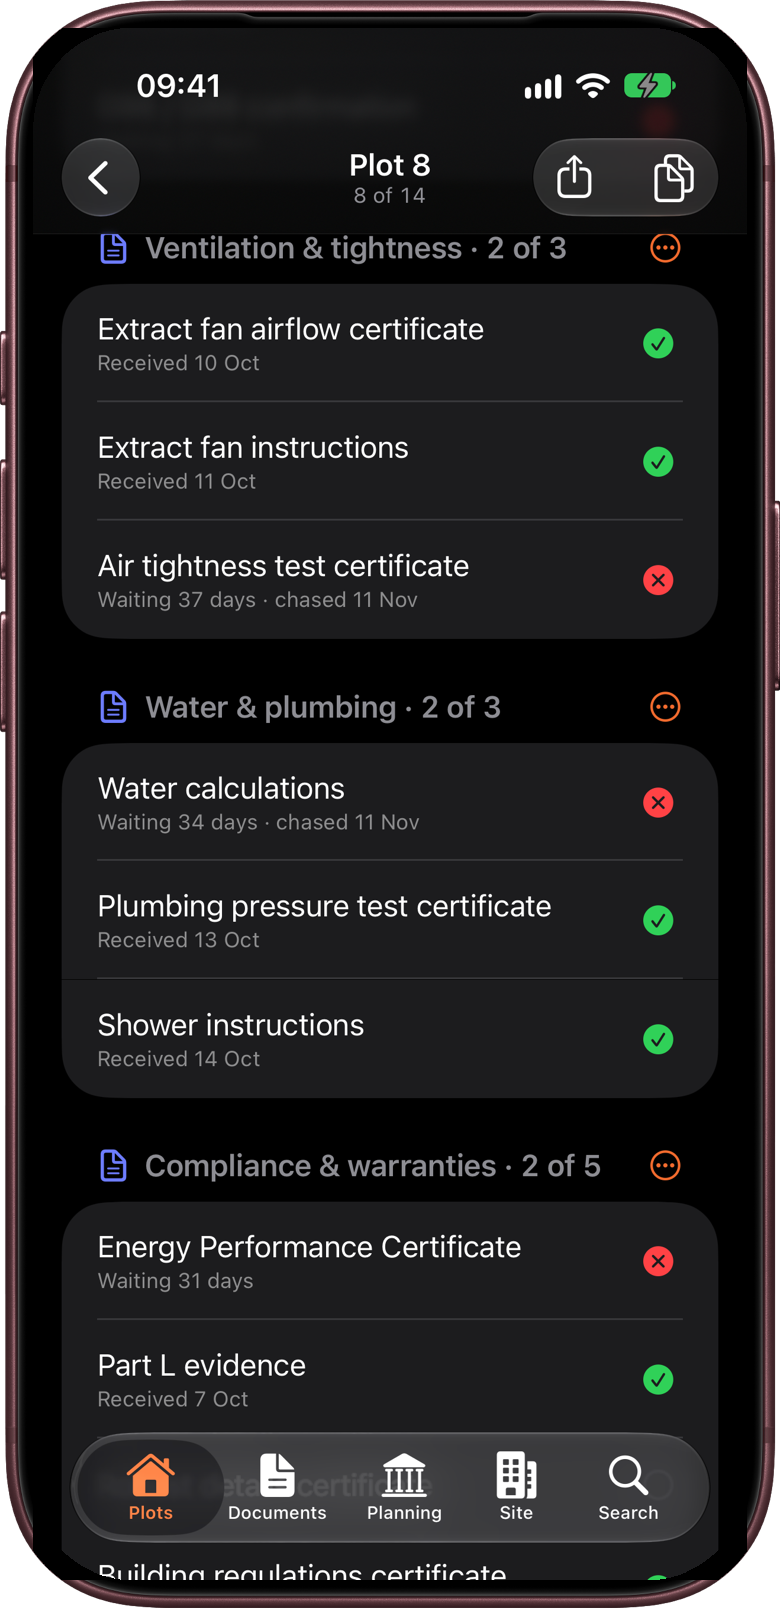
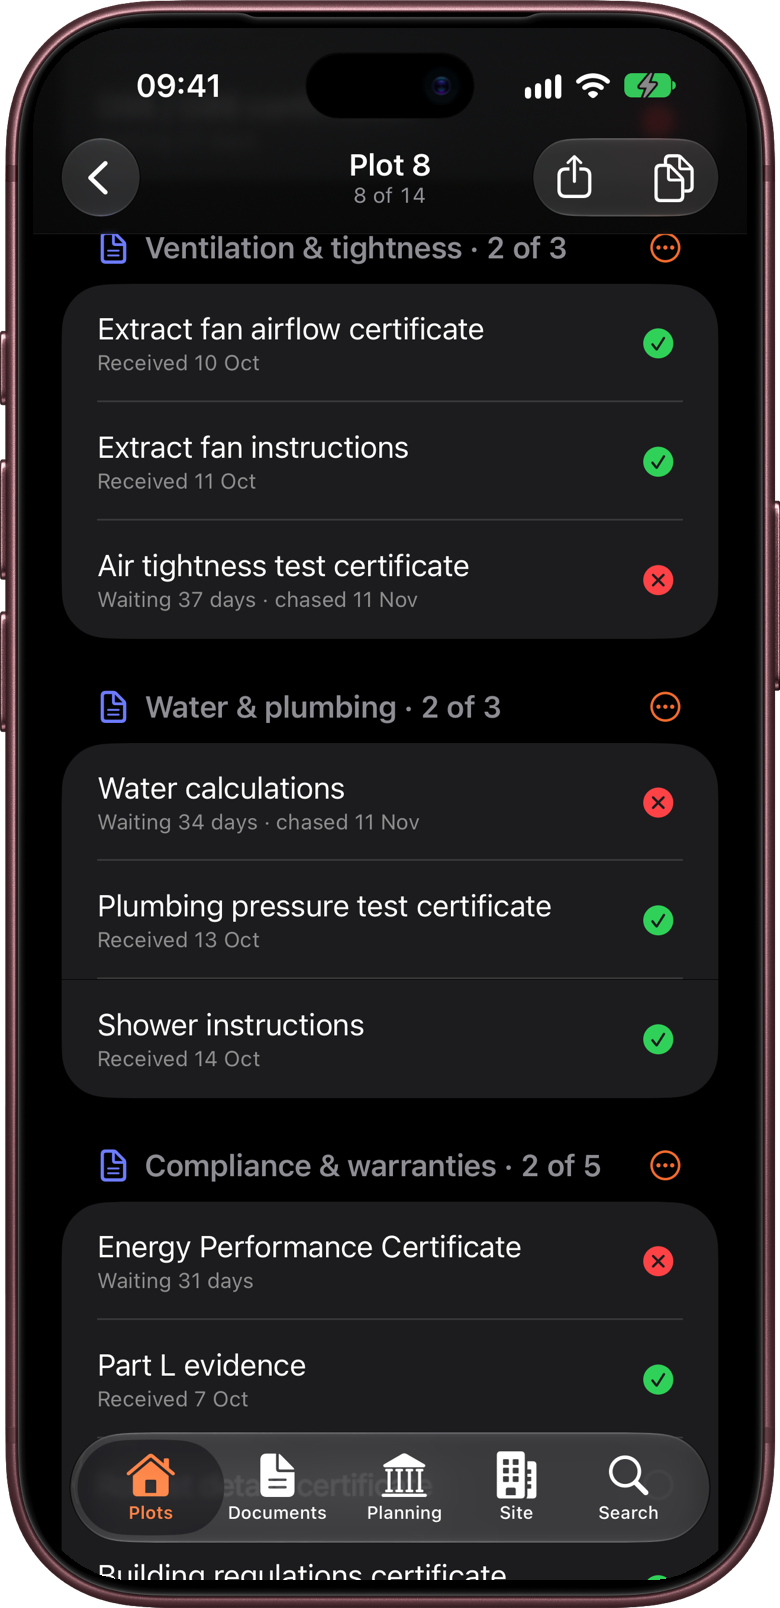
Manual: fix iPhone frame on the tab bar screenshots and update Planning wording
- Rebuild the frame template from the original framed image: clean rounded corners and the Dynamic Island
- Re-frame the eight screenshots retaken for the tab bar layout
- Update chapter 7's Planning wording and the search index

diff --git a/keycheck/manual-search-index.js b/keycheck/manual-search-index.js
@@ -766,7 +766,7 @@ window.KEYCHECK_MANUAL_INDEX = [
   "chapter": "7. Project-wide records",
   "heading": "Planning",
   "url": "manual-project-wide-records.html#planning",
-  "text": "Experimental Planning is experimental. It reads council documents that come in many different layouts, and it will sometimes put a condition in the wrong section or miss a link between decisions. Check what it finds against the documents before relying on it. Planning is a tracker to help you keep on top of the paperwork, not a legal certificate that the site complies with its permission. Planning keeps the site's planning history in one place: the decision notices, the conditions on them, the discharge decisions that approve those conditions, and the S106 and CIL obligations. It works out which permission the site is being built under, and shows what's still outstanding before work starts and before the homes are occupied. Open the project and tap the Planning tab. Planning has four tabs along the top: Timeline , Conditions , S106 and To do . The Meadow View Phase 2 sample project has a full permission (23/01842/FUL) with conditions, discharge decisions and S106 obligations, so it's a good place to look around."
+  "text": "Experimental Planning is experimental. It reads council documents that come in many different layouts, and it will sometimes put a condition in the wrong section or miss a link between decisions. Check what it finds against the documents before relying on it. Planning is a tracker to help you keep on top of the paperwork, and you may need to use your own judgement to decide if a site complies with its permission. Planning keeps the site's planning history in one place: the decision notices, the conditions on them, the discharge decisions that approve those conditions, and the S106 and CIL obligations. It works out which permission the site is being built under, and shows what's still outstanding before work starts and before the homes are occupied. Open the project and tap the Planning tab. Planning has four tabs along the top: Timeline , Conditions , S106 and To do . The Meadow View Phase 2 sample project has a full permission (23/01842/FUL) with conditions, discharge decisions and S106 obligations, so it's a good place to look around."
  },
  {
   "chapter": "7. Project-wide records",
@@ -826,6 +826,6 @@ window.KEYCHECK_MANUAL_INDEX = [
   "chapter": "7. Project-wide records",
   "heading": "Planning in the reports",
   "url": "manual-project-wide-records.html#planning-in-the-reports",
-  "text": "Progress report (chapter 11): a Planning section with the Building under summary and discharge progress, a drawn timeline, the conditions under each heading with discharge decisions and dates, and the S106 obligations. Handover pack (chapter 10): the project documents PDF has a Planning conditions section listing outstanding, discharged and compliance conditions, and the S106 obligations. Conditions replaced by the working variation aren't listed. From the office Planning is mostly office work: whoever deals with the council can import each discharge decision as it arrives, and everyone on a shared project (chapter 12) sees the up-to-date list. Before a progress meeting, check To do and the Conditions tab with Outstanding only switched on. The Pre-commencement and Pre-occupation headings show exactly what's left before work starts and before the first homes are occupied, and the progress report sets this out for the meeting."
+  "text": "Progress report (chapter 11): a Planning section with the Building under summary and discharge progress, a drawn timeline, the conditions under each heading with discharge decisions and dates, and the S106 obligations. Handover pack (chapter 10): the project documents PDF has a Planning conditions section listing outstanding, discharged and compliance conditions, and the S106 obligations. Conditions replaced by the working variation aren't listed. From the office Planning is mostly office work: a user can import each discharge decision as it arrives, and everyone on a shared project (chapter 12) sees the up-to-date list. Before a progress meeting, check To do and the Conditions tab with Outstanding only switched on. The Pre-commencement and Pre-occupation headings show exactly what's left before work starts and before the first homes are occupied, and the progress report sets this out for the meeting."
  }
 ];

diff --git a/keycheck/manual-project-wide-records.html b/keycheck/manual-project-wide-records.html
@@ -165,7 +165,7 @@
       <h3 id="planning">Planning</h3>
       <div class="note">
         <span class="note-label">Experimental</span>
-        <p><strong>Planning is experimental.</strong> It reads council documents that come in many different layouts, and it will sometimes put a condition in the wrong section or miss a link between decisions. Check what it finds against the documents before relying on it. Planning is a tracker to help you keep on top of the paperwork, not a legal certificate that the site complies with its permission.</p>
+        <p><strong>Planning is experimental.</strong> It reads council documents that come in many different layouts, and it will sometimes put a condition in the wrong section or miss a link between decisions. Check what it finds against the documents before relying on it. Planning is a tracker to help you keep on top of the paperwork, and you may need to use your own judgement to decide if a site complies with its permission.</p>
       </div>
       <p>Planning keeps the site's planning history in one place: the decision notices, the conditions on them, the discharge decisions that approve those conditions, and the S106 and CIL obligations. It works out which permission the site is being built under, and shows what's still outstanding before work starts and before the homes are occupied.</p>
       <p>Open the project and tap the <strong>Planning</strong> tab.</p>
@@ -332,7 +332,7 @@
       </ul>
       <div class="note">
         <span class="note-label">From the office</span>
-        <p>Planning is mostly office work: whoever deals with the council can import each discharge decision as it arrives, and everyone on a shared project (chapter 12) sees the up-to-date list. Before a progress meeting, check <strong>To do</strong> and the Conditions tab with <strong>Outstanding only</strong> switched on. The Pre-commencement and Pre-occupation headings show exactly what's left before work starts and before the first homes are occupied, and the progress report sets this out for the meeting.</p>
+        <p>Planning is mostly office work: a user can import each discharge decision as it arrives, and everyone on a shared project (chapter 12) sees the up-to-date list. Before a progress meeting, check <strong>To do</strong> and the Conditions tab with <strong>Outstanding only</strong> switched on. The Pre-commencement and Pre-occupation headings show exactly what's left before work starts and before the first homes are occupied, and the progress report sets this out for the meeting.</p>
       </div>
 
     </section>
